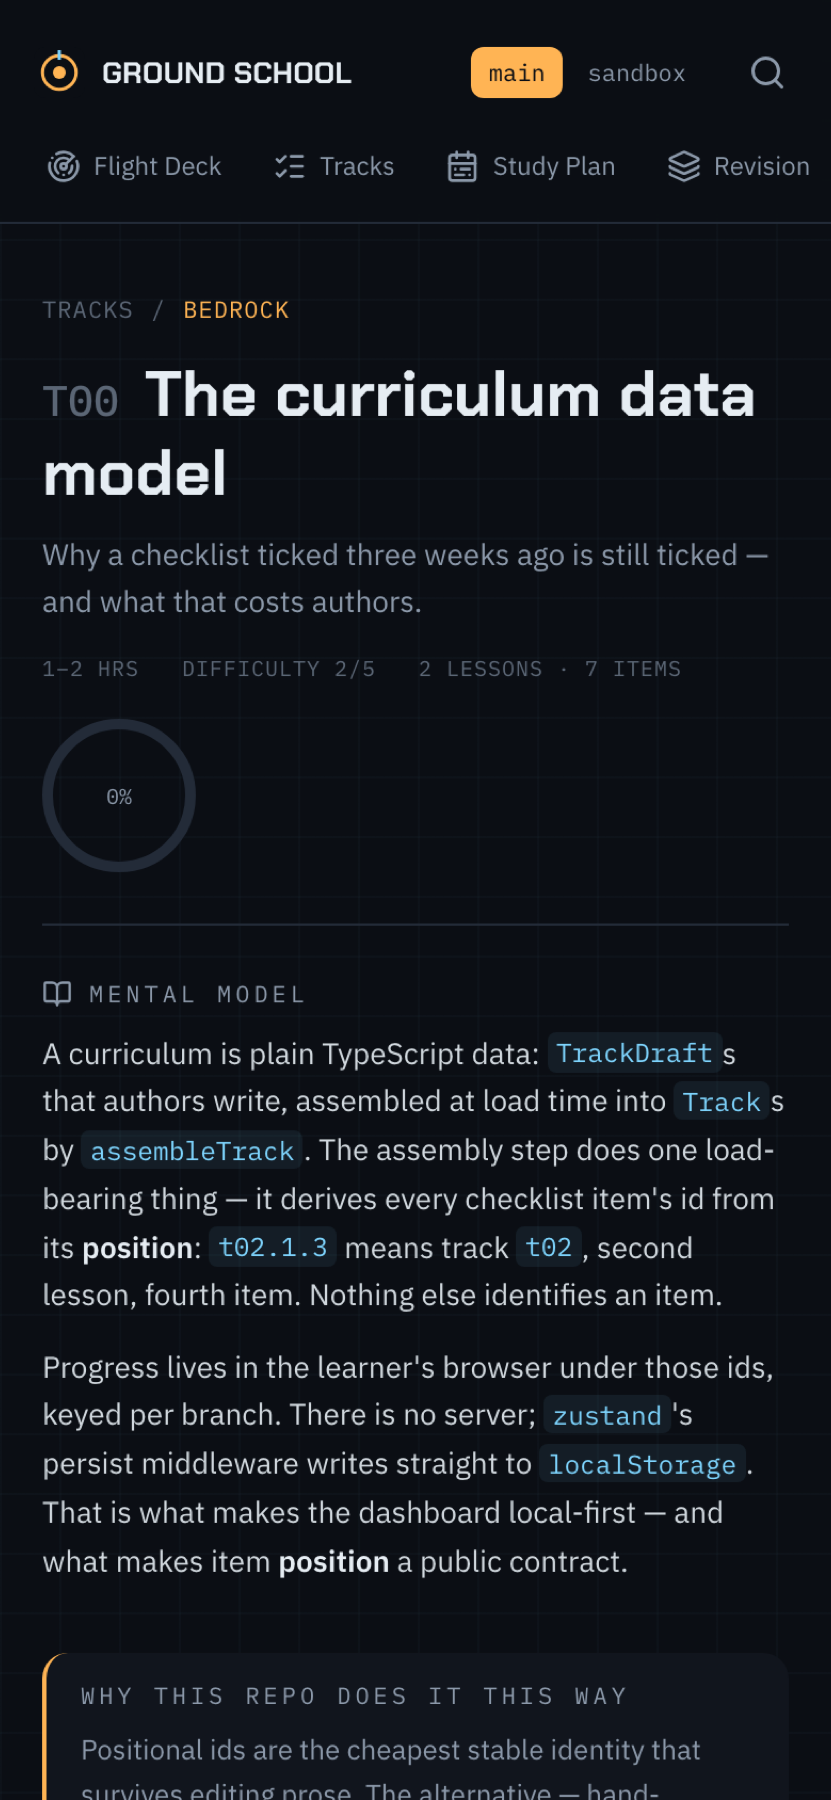
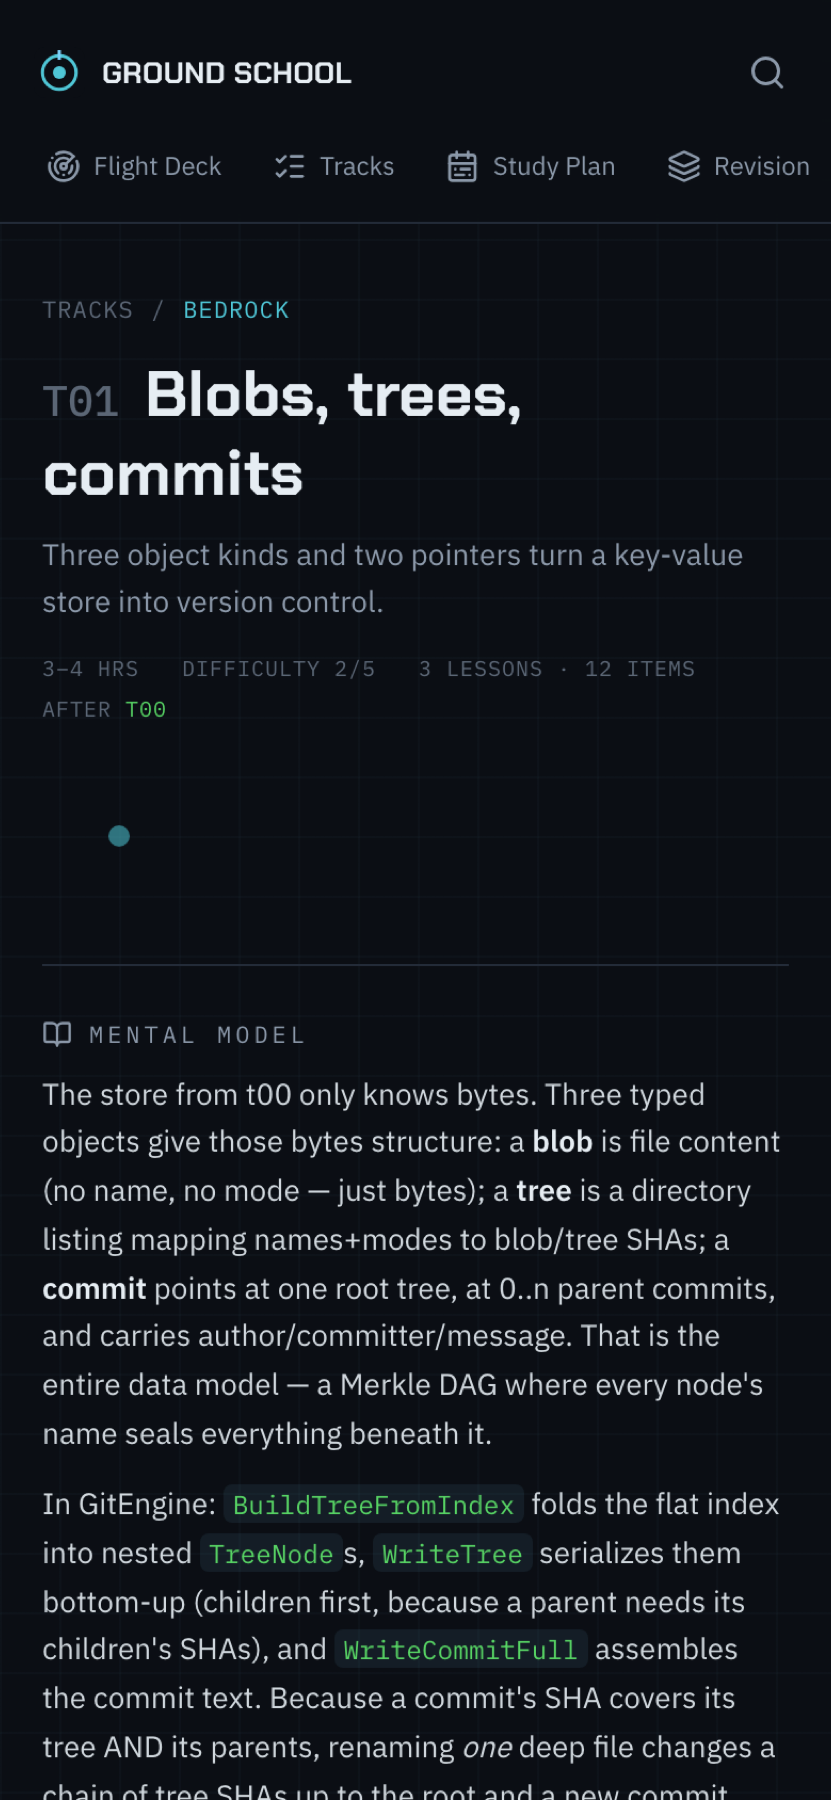
README screenshots: reshoot from the themed GitEngine instance (per-repo tuning visible)

diff --git a/README.md b/README.md
@@ -6,7 +6,7 @@ learning dashboard that lives at `<repo>/groundschool/` and remembers where you 
 **[▶ Live demo](https://brickster241.github.io/groundschool-skill/)** — the skill run on its
 own repository. No install, no account.
 
-![The flight deck of the template's own ground school](docs/img/dashboard.png)
+![The flight deck of a generated ground school — GitEngine's, wearing its own teal review-room tuning](docs/img/dashboard.png)
 
 ## Install & cook
 
